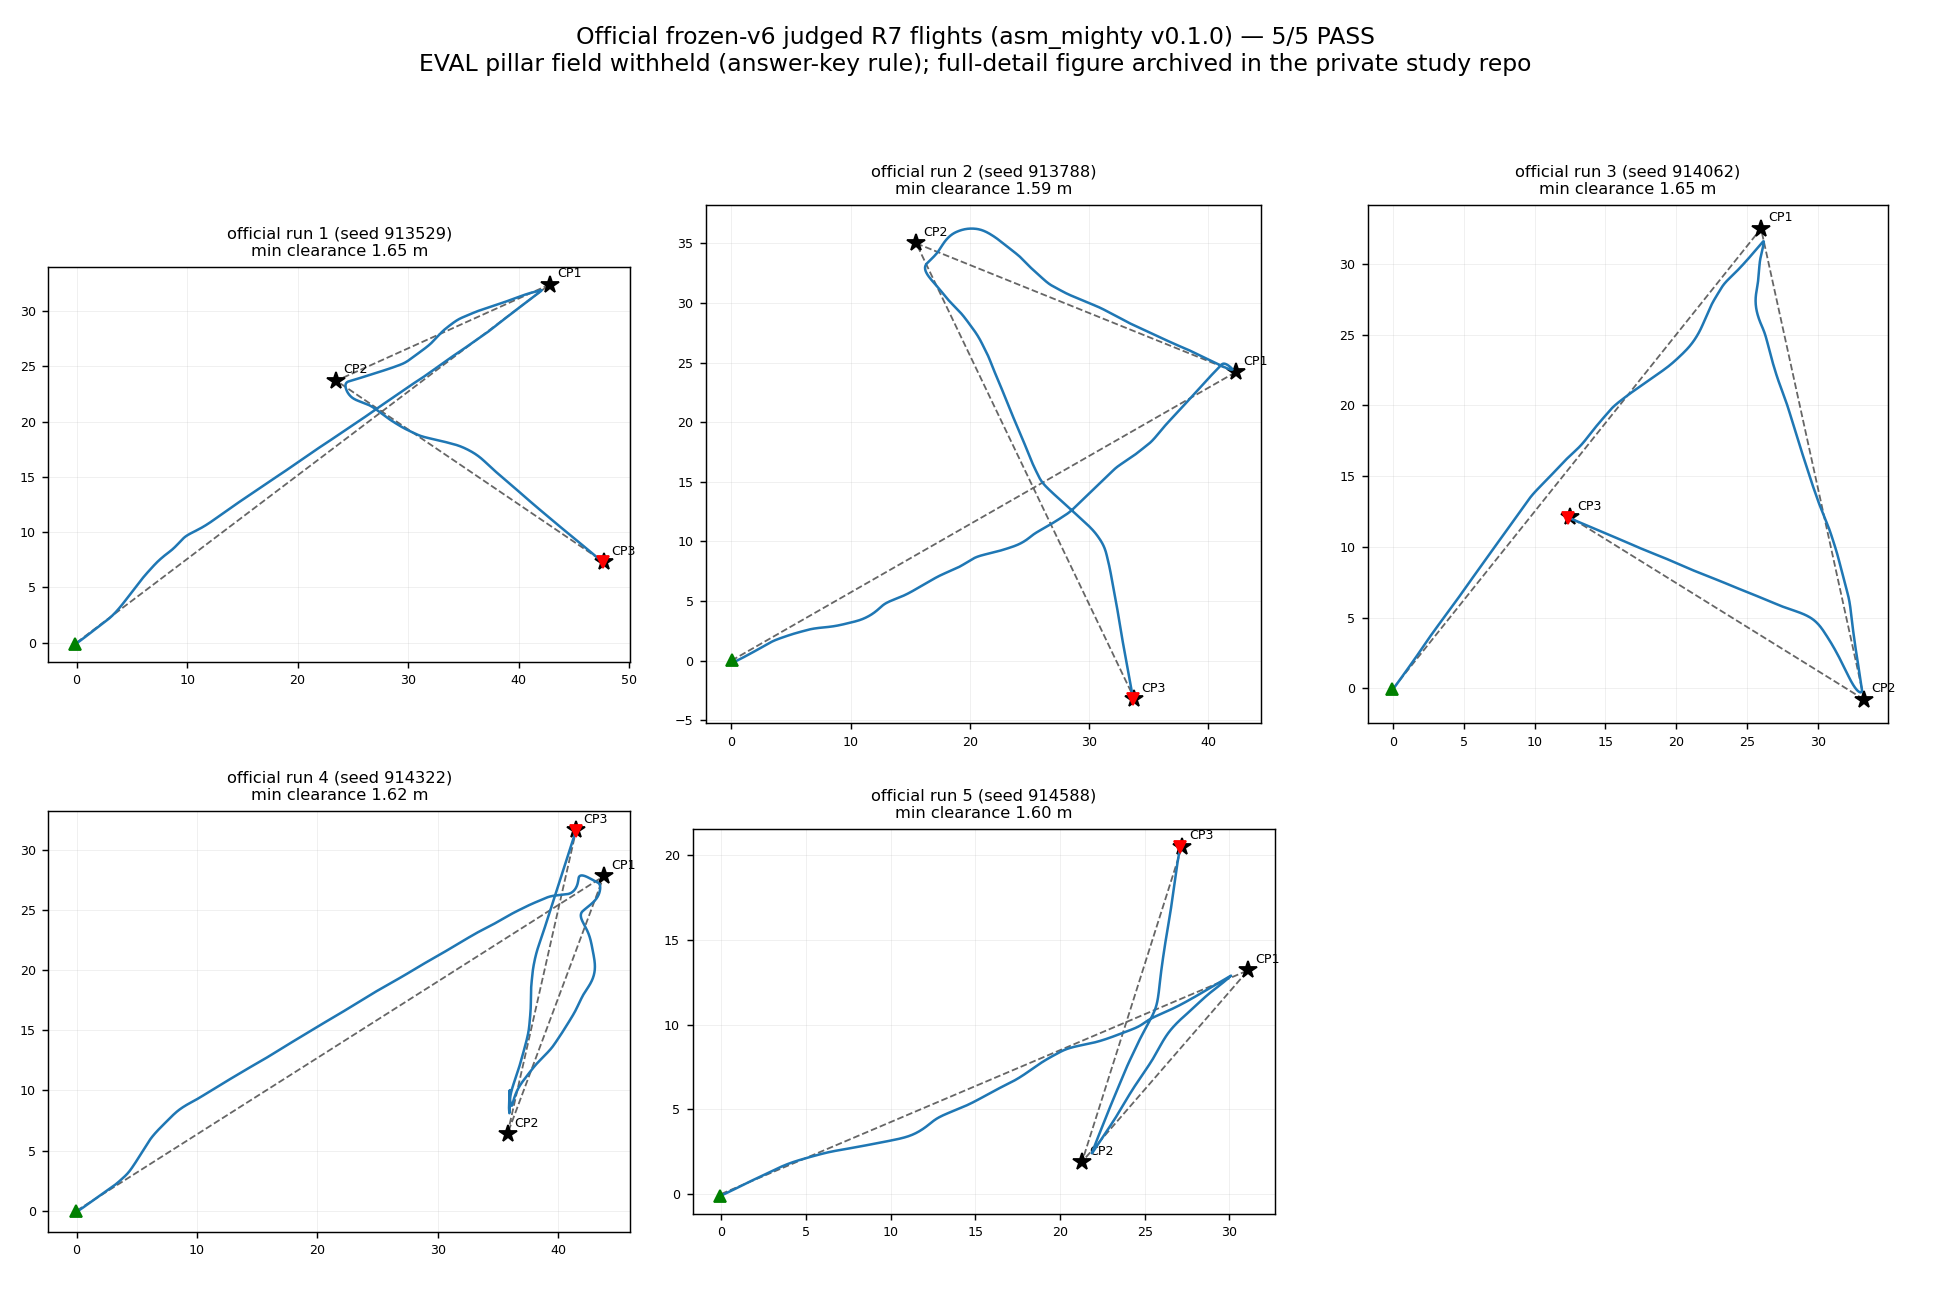
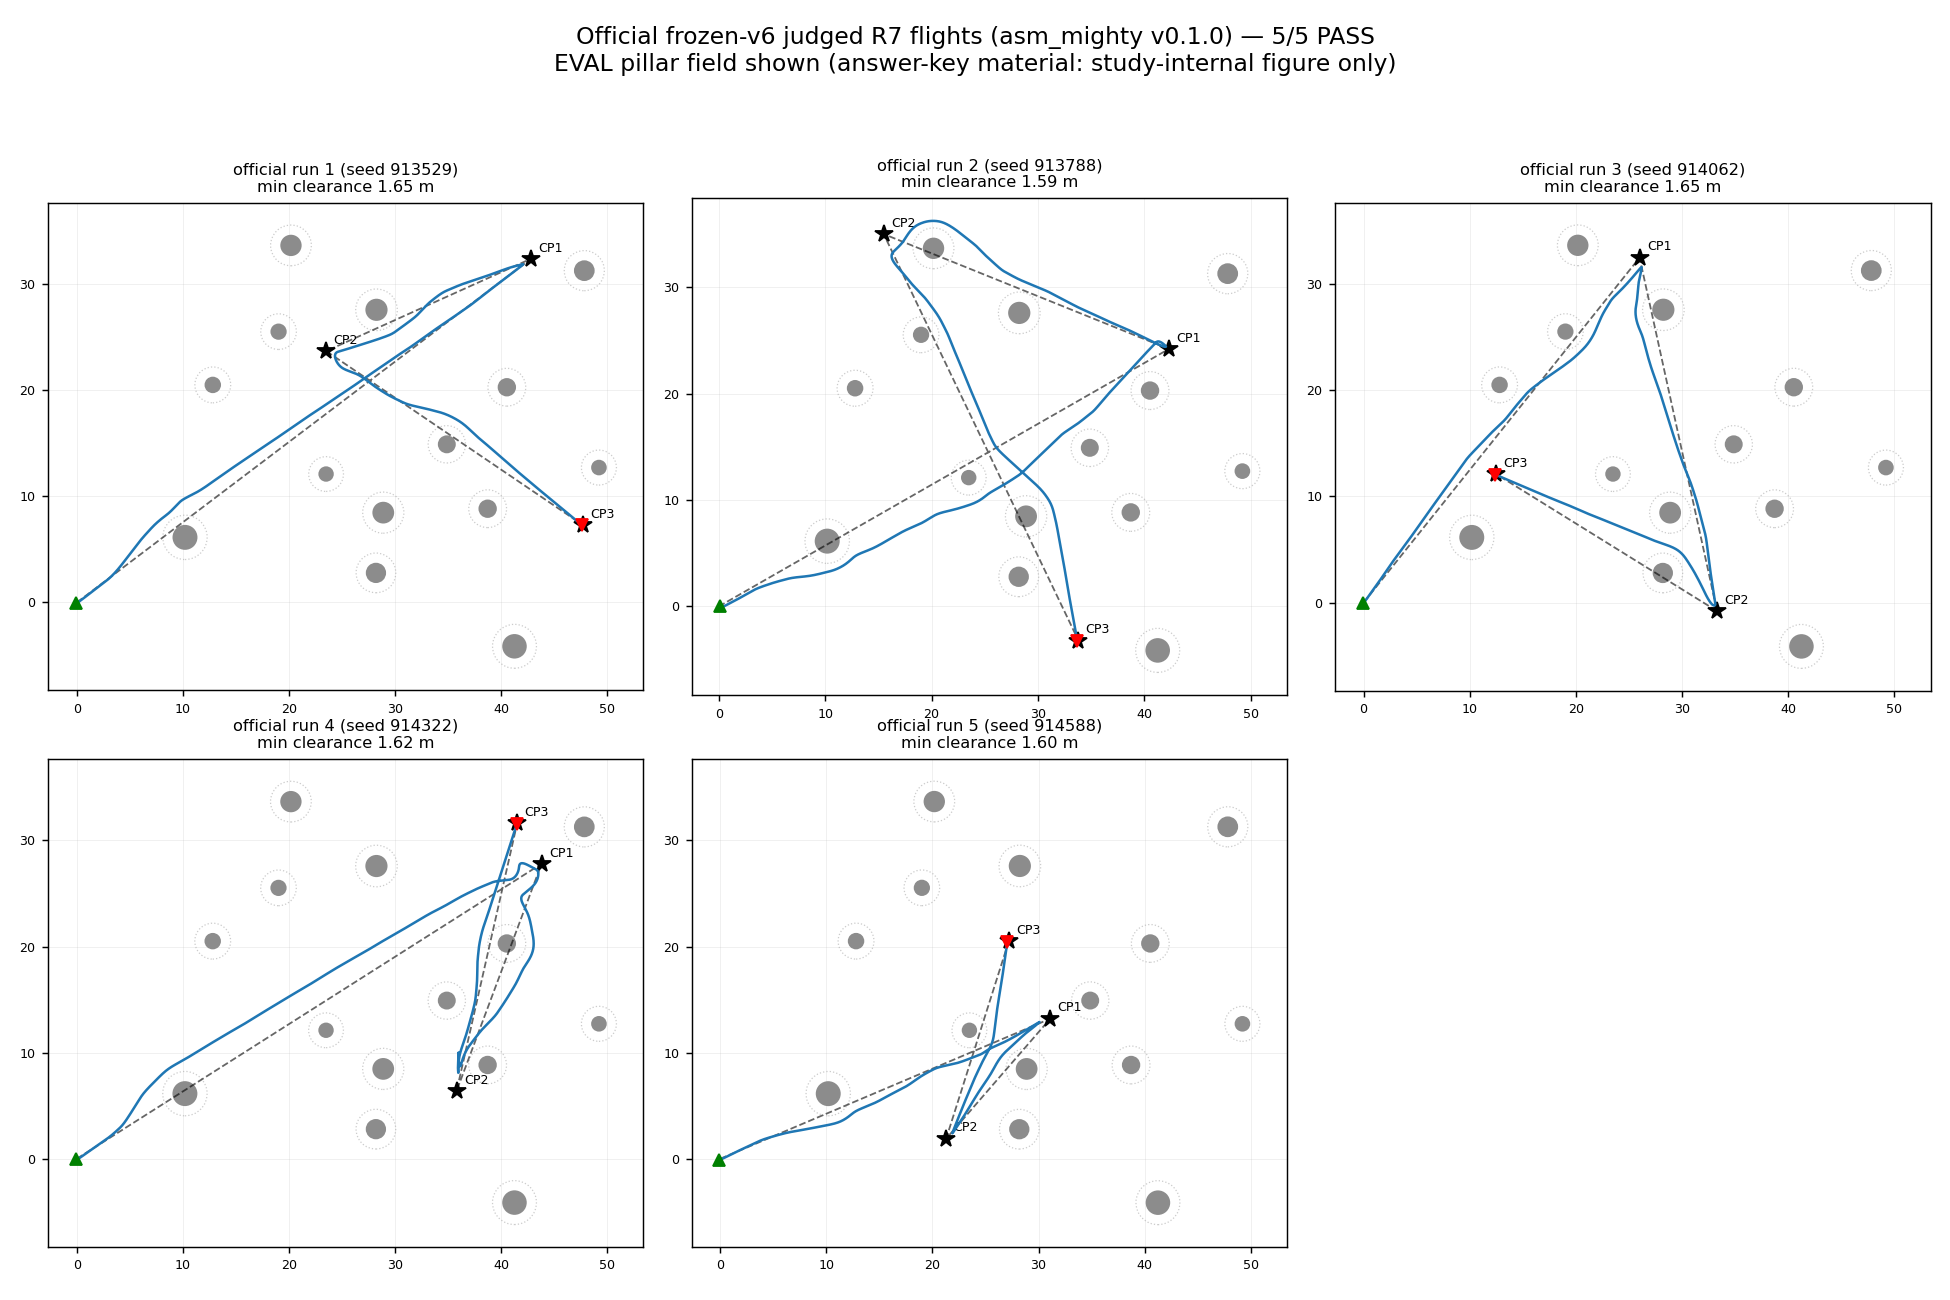
notebook 010: show eval pillar field in the official flight-path figure (lead request)
Answer-key handling noted in the caption and in make_figures.py: the figure
is study-internal (consistent with entries 008/009) and must not reach the
public repo or paper before the study concludes.

diff --git a/notebook/010-mighty-local-planner-module/results/make_figures.py b/notebook/010-mighty-local-planner-module/results/make_figures.py
@@ -155,24 +155,26 @@ def main():
                          load_csv(oc)))
     runs.sort(key=lambda r: r[0])
 
-    for private, fname, pil in (
-            (False, e / 'fig_official_tracks.png', None),
-            (True, RUN_DIR / 'figures' / 'fig_official_tracks_full.png',
-             eval_pillars)):
+    # NOTE: the EVAL pillar layout is answer-key material (strategy choice
+    # 2026-08-28). It is shown here because notebook/ is the study-internal
+    # record (entries 008/009 already contain eval-field details) — this
+    # figure must NOT reach the public repo or the paper before the study
+    # concludes.
+    for fname in (e / 'fig_official_tracks.png',
+                  RUN_DIR / 'figures' / 'fig_official_tracks_full.png'):
         fname.parent.mkdir(exist_ok=True)
         fig, axes = plt.subplots(2, 3, figsize=(15, 10))
         for ax, (label, route, pts) in zip(axes.flat, runs):
             prof = [c for c in clearance_profile(pts, eval_pillars)
                     if c is not None]
-            draw_run(ax, pts, route, pil, title=label,
+            draw_run(ax, pts, route, eval_pillars, title=label,
                      clearance=min(prof) if prof else None)
         for ax in axes.flat[len(runs):]:
             ax.axis('off')
-        note = ('EVAL pillar field shown (PRIVATE — answer key)' if private
-                else 'EVAL pillar field withheld (answer-key rule); '
-                     'full-detail figure archived in the private study repo')
         fig.suptitle('Official frozen-v6 judged R7 flights (asm_mighty v0.1.0) '
-                     f'— 5/5 PASS\n{note}', fontsize=13)
+                     '— 5/5 PASS\nEVAL pillar field shown '
+                     '(answer-key material: study-internal figure only)',
+                     fontsize=13)
         fig.tight_layout(rect=(0, 0, 1, 0.94))
         fig.savefig(fname, dpi=130)
         plt.close(fig)

diff --git a/notebook/010-mighty-local-planner-module/results/results_summary.md b/notebook/010-mighty-local-planner-module/results/results_summary.md
@@ -132,9 +132,9 @@ Plus one clearance retune from measurement: a completed judged flight shaved 0.7
 
 **5/5 official + validation = 6 consecutive judged PASSES** (criterion: ≥4/5). Goal errors 0.01–0.15 m (gate 2.5 m); min clearances 1.59–1.65 m (gate 1.0 m); every route in order and in budget. **R7 reference solvability under frozen campaign v6 is DEMONSTRATED.**
 
-![Official judged flight paths (eval pillars withheld)](e-r7-solvability/fig_official_tracks.png)
+![Official judged flight paths (eval pillar field shown)](e-r7-solvability/fig_official_tracks.png)
 
-**Qualitative read:** every official flight takes off at the origin (green triangle — the judge's own bring-up, unlike the practice-batch caveat in §(d)), threads the issued checkpoints in order, and shows the same signature behavior: straight-leg tracking with smooth, singular avoidance bulges (run 2's arc at the top of its first leg, run 3's bowed CP1→CP2 leg, run 4's weave up the tight CP2→CP3 corridor). Tracks terminate hovering at CP3. The EVAL pillar field is withheld here per the answer-key rule — the full-detail figure (same tracks with pillars) is archived privately at `agent_study/runs/ref_validation_v6_mighty_001/figures/fig_official_tracks_full.png`.
+**Qualitative read:** every official flight takes off at the origin (green triangle — the judge's own bring-up, unlike the practice-batch caveat in §(d)), threads the issued checkpoints in order, and shows the same signature behavior: straight-leg tracking with smooth, singular avoidance bulges, each one now visibly paired with a pillar sitting on the leg — run 2's arc over the pillar at the top of its first leg, run 3's bow around the pillar on its CP1 approach, run 4's weave between the pillar pair in the tight CP2→CP3 corridor, run 5's deviation on the return leg. Tracks terminate hovering at CP3. ⚠ **Answer-key handling:** the EVAL pillar layout shown here is answer-key material (strategy choice 2026-08-28); this figure is study-internal (`notebook/` on `airstack-paper`, consistent with entries 008/009 which already carry eval-field details) and must not reach the public repo or the paper before the study concludes.
 
 ![Official flights: clearance profiles](e-r7-solvability/fig_official_clearance.png)
 
